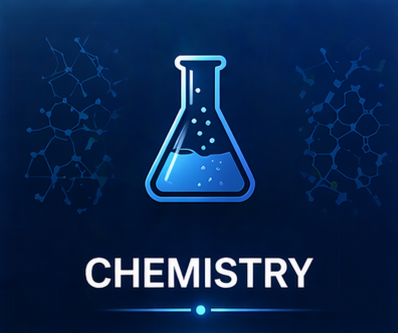
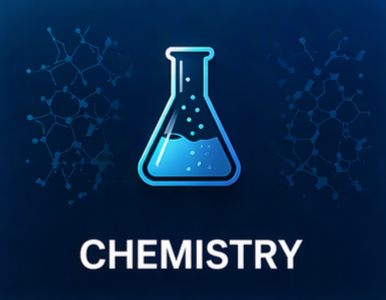
images changed and a whole new file added

diff --git a/carsoule.html b/carsoule.html
@@ -87,9 +87,9 @@
 
         .card {
             flex: 0 0 5em;
-            height: 4em;
+            height: 3.7em;
             background-color: #C7B7A3;
-            font-size: 2.6rem;
+            font-size: 3rem;
             border-radius: 30px;
             text-align: center;
             align-content: center;
@@ -108,60 +108,40 @@
         }
 
 
-        /*shadow of images
-         .img-bio {
-            box-shadow: 0px 0px 15px rgb(95, 199, 63);
-            outline: ;
-        }
-
-        .img-chem {
-            box-shadow: 0px 0px 15px rgb(18, 88, 219);
-        }
-
-        .img-geo {
-            box-shadow: 0px 0px 15px rgb(27, 146, 193);
-        }
-
-        .img-maths {
-            box-shadow: 0px 0px 15px rgb(76, 131, 197);
-        }
-
-        .img-phyco {
-            box-shadow: 0px 0px 15px rgb(255, 75, 204);
-        }
-
-        .img-phys {
-            box-shadow: 0px 0px 15px rgb(165, 59, 40);
-        }*/
-
-    
+       
 
 
         .card-b {
-  border-color: rgba(77, 163, 255, 0.25);
+  border: 1.5px solid rgba(0, 212, 255, 0.35);
+  box-shadow: 
+    0 6px 20px rgba(0, 0, 0, 0.4);
+
 }
+  
 
 .card-b:hover {
-  border-color: #4da3ff;
-  box-shadow: 0 10px 30px rgba(77, 163, 255, 0.25);
-   /* THIS is the visible glow */
+ border-color: #00d4ff;
+
   box-shadow:
-    0 0 0 1px rgba(77, 163, 255, 0.4),
-    0 8px 25px rgba(0, 0, 0, 0.4),
-    0 0 25px rgba(77, 163, 255, 0.25);
+    0 0 0 1px rgba(0, 212, 255, 0.5),
+    0 8px 25px rgba(0, 0, 0, 0.45),
+    0 0 28px rgba(0, 212, 255, 0.28);
 }
 
 .card-a {
-  border-color: rgba(140, 120, 255, 0.4);
+  border: 1.5px solid rgba(0, 212, 255, 0.35);
+  box-shadow: 
+    0 6px 20px rgba(0, 0, 0, 0.4);
+
 }
 
 .card-a:hover {
-  border-color: #8c78ff;
+ border-color: #00d4ff;
 
   box-shadow:
-    0 0 0 1px rgba(140, 120, 255, 0.4),
-    0 8px 25px rgba(0, 0, 0, 0.4),
-    0 0 25px rgba(140, 120, 255, 0.25);
+    0 0 0 1px rgba(0, 212, 255, 0.5),
+    0 8px 25px rgba(0, 0, 0, 0.45),
+    0 0 28px rgba(0, 212, 255, 0.28);
 }
 
 
@@ -208,26 +188,26 @@
 
 <body>
     <div class="position-absolute top-50 start-50 translate-middle text-center">
-        <div class="main-text pt-3">
-            Choose one from the categories below and see how many questions you can answer correctly!!
-        </div>
         <section>
             <div class="container">
+                <div class="main-text pt-4 ps-2 pe-2">
+                    Choose one from the categories below and see how many questions you can answer correctly!!
+                </div>
                 <div class="carousel">
                     <div class="group ps-1 pt-1 pb-1">
                         <a href="quiz.html?subject=biology">
                             <div class="card img-bio  card-a animation2">
-                                <img src="img/biologyyy.png" class="w-100" alt="">
+                                <img src="img/biology.png" class="w-100" alt="">
                             </div>
                         </a>
                         <a href="quiz.html?subject=chemistry">
                             <div class="card img-chem card-a animation1">
-                                <img src="img/chemistryy.png" class="w-100" alt="">
+                                <img src="img/chemistry.png" class="w-100" alt="">
                             </div>
                         </a>
                         <a href="quiz.html?subject=phycology">
                             <div class="card img-phyco card-a animation2">
-                                <img src="img/phycologyyy.png" class="w-100" alt="">
+                                <img src="img/phycologyy.png" class="w-100" alt="">
                             </div>
                         </a>
                         <a href="quiz.html?subject=geography">
@@ -237,17 +217,17 @@
                         </a>
                         <a href="quiz.html?subject=maths">
                             <div class="card img-maths card-b animation2">
-                                <img src="img/mathsss.png" class="w-100" alt="">
+                                <img src="img/maths.png" class="w-100" alt="">
                             </div>
                         </a>
                         <a href="quiz.html?subject=physics">
                             <div class="card img-phys card-b animation1">
-                                <img src="img/physicss.png" class="w-100" alt="">
+                                <img src="img/physics.png" class="w-100" alt="">
                             </div>
                         </a>
                     </div>
                 </div>
-                <div style="margin-top: -0px;"><label for=""><i class="fa-solid fa-angles-right fa-bounce"
+                <div style="margin-bottom: 30px;"><label for=""><i class="fa-solid fa-angles-right fa-bounce"
                             style="color:white; text-shadow:0px 0px 30px rgb(68, 164, 237); font-size:30px;"></i></label>
                 </div>
             </div>
